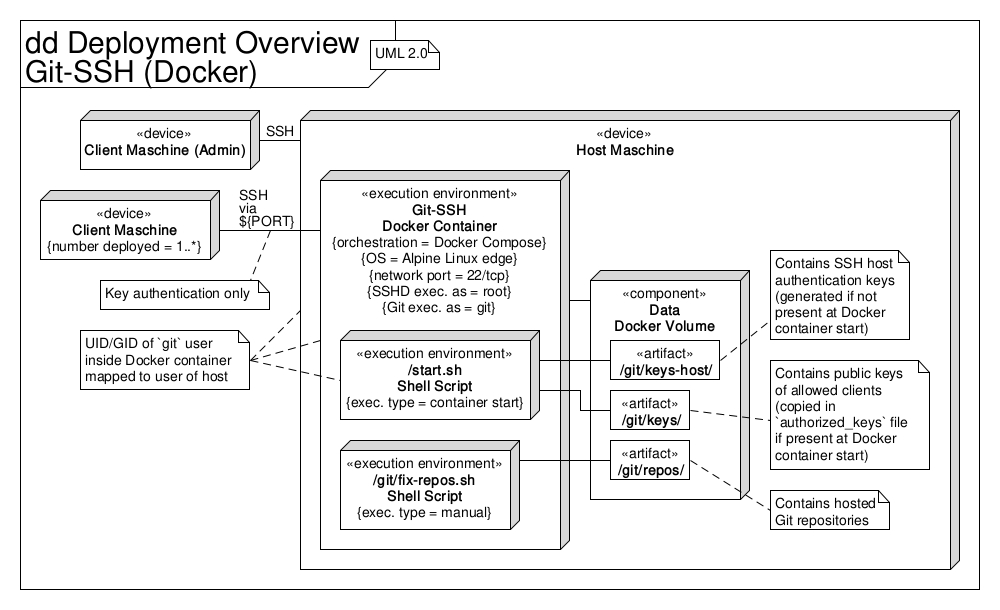
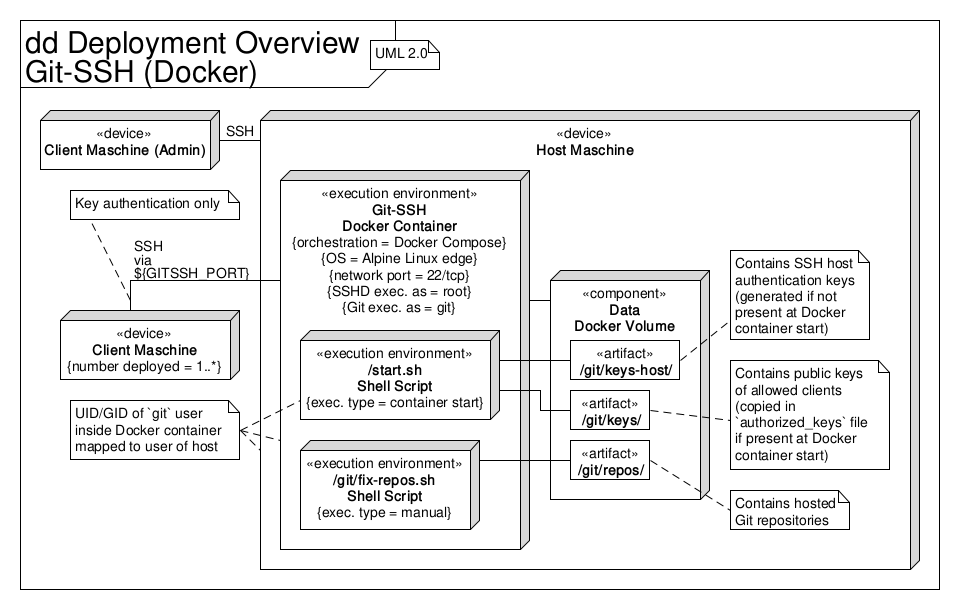
Add possibility to use environment variables

Changed region(s): [[0.0312, 0.1869, 0.9688, 0.9344], [0.0, 0.0311, 0.4688, 0.2803], [0.2812, 0.4984, 0.3125, 0.5295]]

diff --git a/README.md b/README.md
@@ -19,18 +19,18 @@ The UML deployment diagram in the figure below gives an overview.
 > * Host - Host machine that runs the Docker container
 
 > Used variables in this documentation:
-> * BASE_PATH - Path to the directory that contains this project’s files
+> * GITSSH_BASE_PATH - Path to the directory that contains this project’s files
 >   (especially `Dockerfile` + other build-related files and
 >   `docker-compose.yml`)
-> * GID - GID assigned to the `git` user within the Docker container, e.g.
->   `1000`.
+> * GITSSH_GID - GID assigned to the `git` user within the Docker container,
+>   e.g. `1000`.
 >   The access permissions of the Docker volumes content will be set to this
 >   GID.
-> * PORT - Network port used for the Git SSH connection, e.g. `2222`
+> * GITSSH_PORT - Network port used for the Git SSH connection, e.g. `2222`
 > * REPO_NAME - Name of the Git repository
 > * SERVER - Network address (IP/domain name) of the host
-> * UID - UID assigned to the `git` user within the Docker container, e.g.
->   `1000`.
+> * GITSSH_UID - UID assigned to the `git` user within the Docker container,
+>   e.g. `1000`.
 >   The acces spermissions of the Docker volumes content will be set to this
 >   UID.
 > * USER - SSH user used to login to the host
@@ -50,7 +50,7 @@ authentication.
 
 Most of the instructions in this documentation can also be run with the
 provided `Makefile` (which uses Docker-Compose).
-Run `cd ${BASE_PATH} && make help` to see the list of available targets.
+Run `cd ${GITSSH_BASE_PATH} && make help` to see the list of available targets.
 
 > The Makefile uses Docker-Compose, see the prerequisite in "How to run the
 > container with Docker-Compose (on the host)" in the [Run section](#run).
@@ -60,7 +60,7 @@ Run `cd ${BASE_PATH} && make help` to see the list of available targets.
 How to build the Docker image (on the host):
 
 ```sh
-$ cd ${BASE_PATH}
+$ cd ${GITSSH_BASE_PATH}
 $ sudo docker build -t git-ssh:${VERSION} .
 $ sudo docker image tag git-ssh:${VERSION} git-ssh:latest
 ```
@@ -81,16 +81,16 @@ $ sudo docker image tag git-ssh:${VERSION} git-ssh:latest
 How to run the container (on the host):
 
 ```sh
-$ cd ${BASE_PATH}
+$ cd ${GITSSH_BASE_PATH}
 $ mkdir -p ./git-ssh/keys-host/ ./git-ssh/keys/ ./git-ssh/repos/
 $ sudo docker run \
   -d \
-  -p ${PORT}:22 \
-  -v ${BASE_PATH}/git-ssh/keys-host/:/git/keys-host/ \
-  -v ${BASE_PATH}/git-ssh/keys/:/git/keys/ \
-  -v ${BASE_PATH}/git-ssh/repos/:/git/repos/ \
-  -e PUID=${UID} \
-  -e PGID=${GID} \
+  -p ${GITSSH_PORT}:22 \
+  -v ${GITSSH_BASE_PATH}/git-ssh/keys-host/:/git/keys-host/ \
+  -v ${GITSSH_BASE_PATH}/git-ssh/keys/:/git/keys/ \
+  -v ${GITSSH_BASE_PATH}/git-ssh/repos/:/git/repos/ \
+  -e PUID=${GITSSH_UID} \
+  -e PGID=${GITSSH_GID} \
   --name="git-ssh" \
   git-ssh:latest
 ```
@@ -100,8 +100,18 @@ How to run the container with Docker-Compose (on the host):
 Prerequisite:
 Copy `docker-compose.yml.template` to `docker-compose.yml` and adjust it.
 
+> Instead of modifying `docker-compose.yml` after copying it, one can create an
+> `.env` file that provides the necessary variables:
+>
+> ```sh
+> GITSSH_PORT=
+> GITSSH_BASE_PATH=
+> GITSSH_UID=
+> GITSSH_GID=
+> ```
+
 ```sh
-$ cd ${BASE_PATH}
+$ cd ${GITSSH_BASE_PATH}
 $ mkdir -p ./git-ssh/keys-host/ ./git-ssh/keys/ ./git-ssh/repos/
 $ sudo docker-compose up -d
 ```
@@ -125,7 +135,7 @@ How to add a client’s public SSH key to the Git-SSH server:
 Upload the key to the host’s volume mount point (on the client):
 
 ```sh
-$ scp ~/.ssh/id_ecdsa.pub ${USER}@${SERVER}:${BASE_PATH}/git-ssh/keys/
+$ scp ~/.ssh/id_ecdsa.pub ${USER}@${SERVER}:${GITSSH_BASE_PATH}/git-ssh/keys/
 ```
 
 Restart the Docker container (on the host):
@@ -146,7 +156,7 @@ How to
 already):
 
 ```sh
-$ ssh -p ${PORT} git@${SERVER}
+$ ssh -p ${GITSSH_PORT} git@${SERVER}
 
 ~~~ Welcome to Git SSH server! ~~~
 
@@ -167,7 +177,7 @@ $ sudo docker exec -u git git-ssh git init --bare ./repos/${REPO_NAME}.git
 How to clone a repository (on the client):
 
 ```sh
-$ git clone ssh://git@${SERVER}:${PORT}/git/repos/${REPO_NAME}.git
+$ git clone ssh://git@${SERVER}:${GITSSH_PORT}/git/repos/${REPO_NAME}.git
 ```
 
 How to push a (non-bare) repository that (yet) only exists locally (on the
@@ -178,7 +188,8 @@ Prerequisite: Create a new (bare) repository (on the host).
 > See "How to create a new (bare) repository (on the host)".
 
 ```sh
-$ git remote add origin ssh://git@${SERVER}:${PORT}/git/repos/${REPO_NAME}.git
+$ git remote add origin \
+  ssh://git@${SERVER}:${GITSSH_PORT}/git/repos/${REPO_NAME}.git
 $ git push -u origin master
 ```
 
@@ -190,7 +201,8 @@ $ git push -u origin master
 How to upload an existing bare repository (on the client):
 
 ```sh
-$ scp -r /path/to/${REPO_NAME}.git ${USER}@${SERVER}:${BASE_PATH}/git-ssh/repos/
+$ scp -r /path/to/${REPO_NAME}.git \
+  ${USER}@${SERVER}:${GITSSH_BASE_PATH}/git-ssh/repos/
 ```
 
 > Make sure that uploaded bare repositories have the correct access permissions
